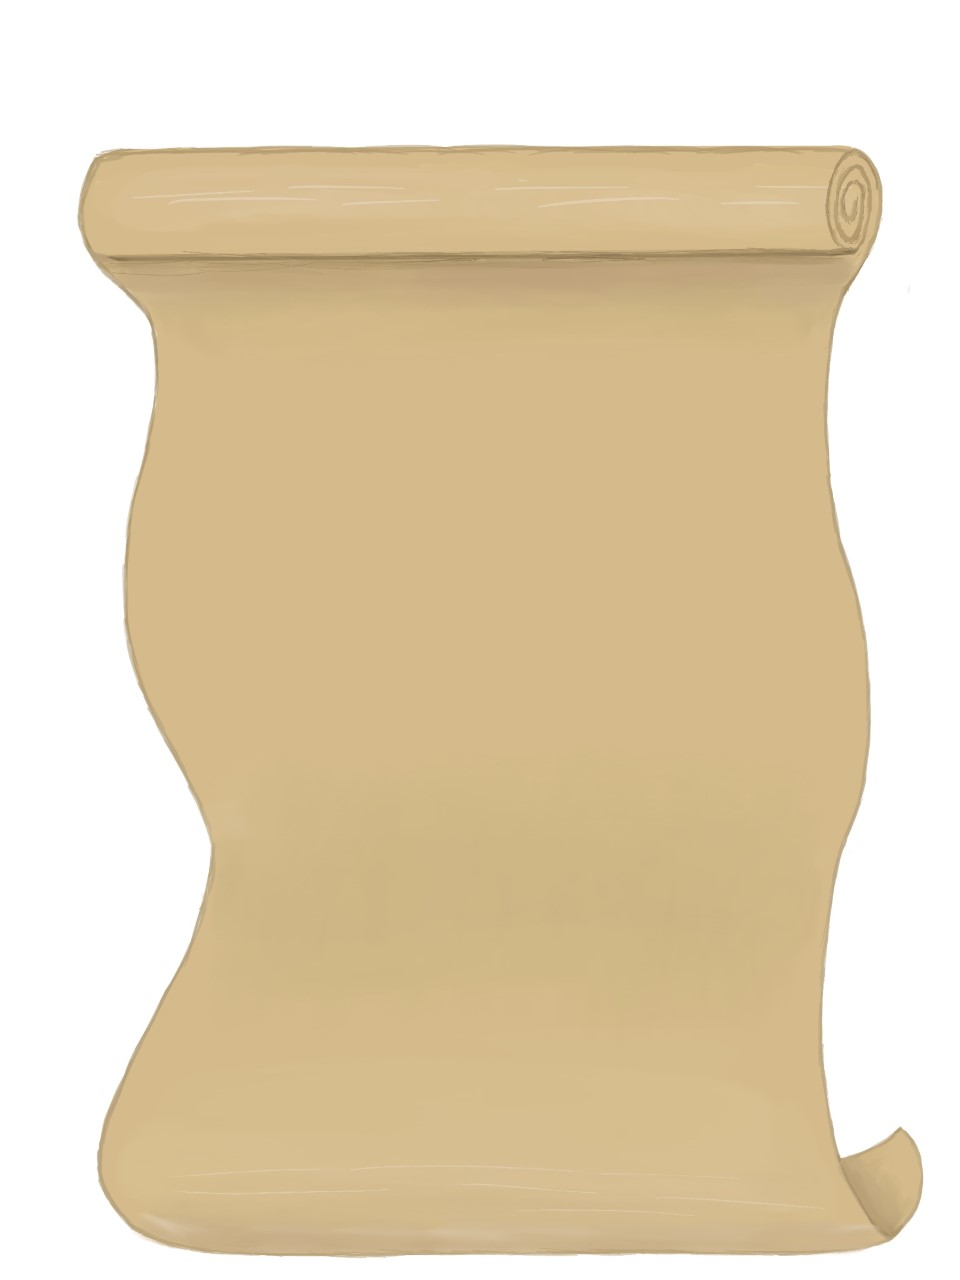
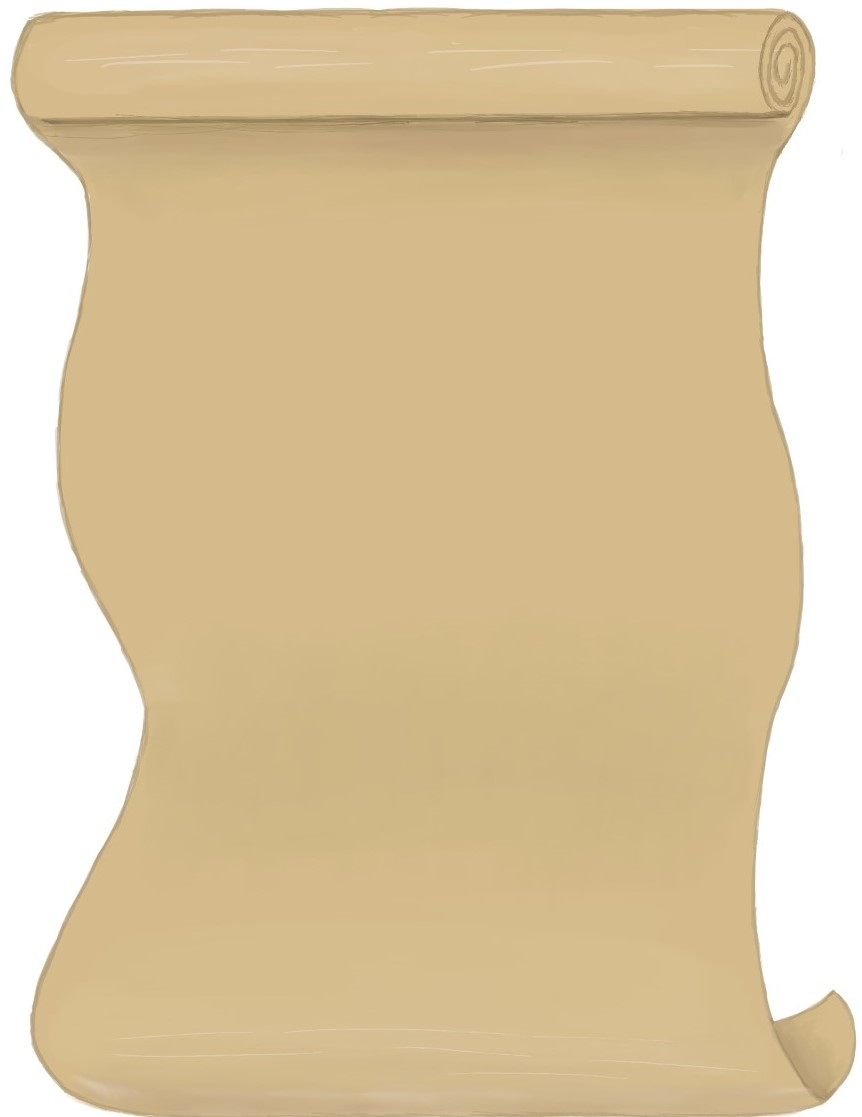
added an html for a sample scenario layout

Changed region(s): [[0.0, 0.0, 0.9954, 1.0]]

diff --git a/SampleSituation.html b/SampleSituation.html
@@ -1,0 +1,70 @@
+<!DOCTYPE html>
+<html lang="en">
+
+    <head>
+        <meta name="viewport" content="width=device-width, initial-scale=1.0">
+        <meta charset="UTF-8">
+        <title>Sample Scenario</title>
+    </head>
+
+    <body>
+        <!--Left Side-->
+        <img class="scene-img" src="/images/camp-daytime.jpg">
+        <!--Right Side-->
+        <div>
+            <img src="images/Scroll.jpg">
+            <p>You have just escaped Julius Caesar’s prison but you don’t remember what happened that led you to be put in prison.
+                You decide to move to a town where your uncle is the king.
+                You arrive in a nearby kingdom and realize that you need money to either find a place to sleep or get food.What do you do?</p>
+            <button class="btn-1">Rob someone for money</button>
+            <button class="btn-2">Beg for money</button>
+        </div>
+    </body>
+
+    <style>
+        .scene-img {
+            margin: auto;
+            height: 782px;
+            width: 49%;
+        }
+        div {
+            float: right;
+            margin: auto;
+            width: 50%;
+            height: 782px;
+            position: relative;
+            text-align: center;
+            
+        }
+        div img {
+            margin: auto;
+            width: 100%;
+            height: 100%;;
+            object-fit: fill;
+        }
+        div p {
+            position: absolute;
+            top: 40%;
+            left: 50%;
+            transform: translate(-50%, -50%);
+            font-size: xx-large;
+        }
+        .btn-1 {
+            position: absolute;
+            top: 80%;
+            left: 50%;
+            transform: translate(-50%, -50%);
+            font-size: 30px;
+            padding: 10px 10px;
+        }
+        .btn-2 {
+            position: absolute;
+            top: 90%;
+            left: 50%;
+            transform: translate(-50%, -50%);
+            font-size: 30px;
+            padding: 10px 10px;
+        }
+    </style>
+
+</html>
